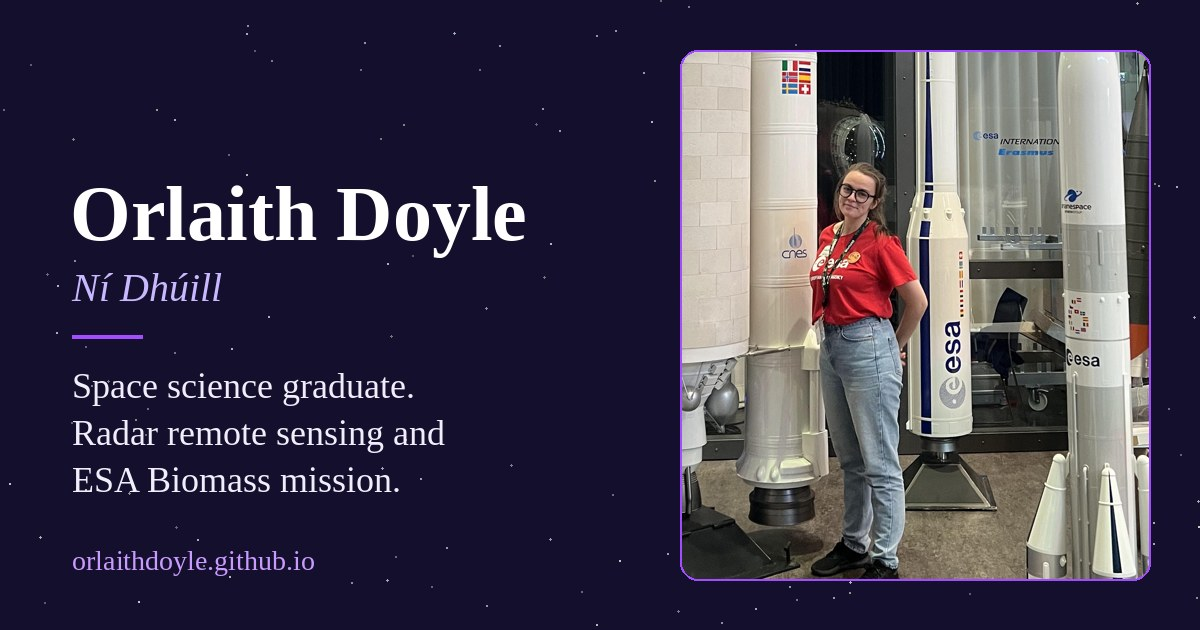
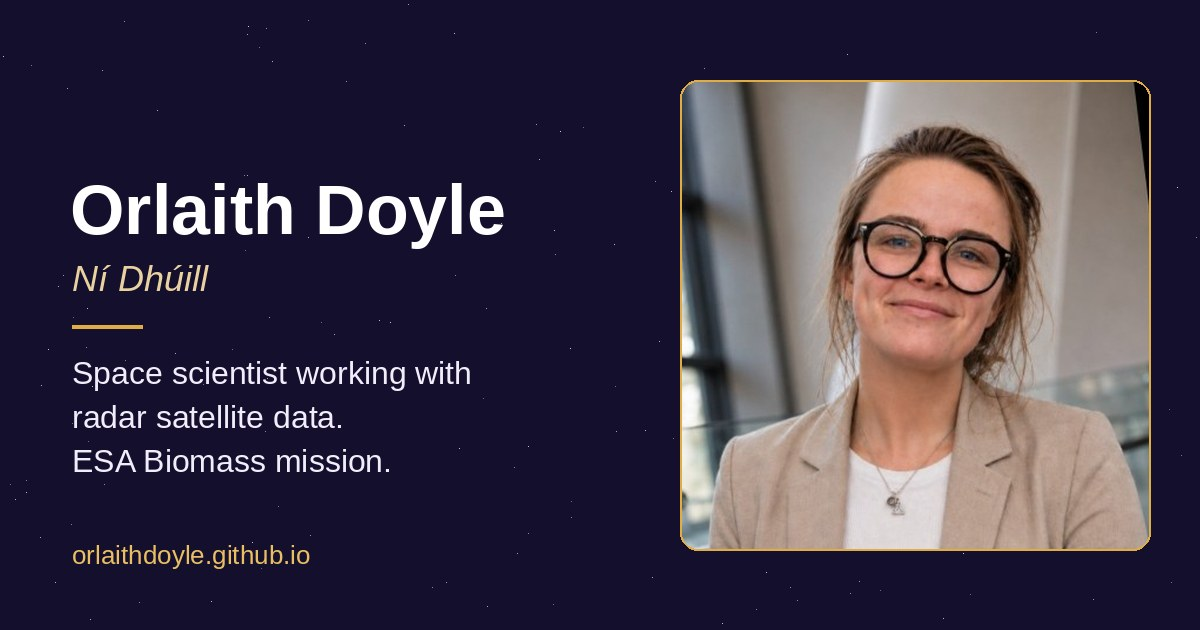
New headshot on home page and link preview card

diff --git a/_layouts/default.html b/_layouts/default.html
@@ -16,7 +16,7 @@
 <meta property="og:image" content="{{ '/og-image.jpg' | absolute_url }}">
 <meta property="og:image:width" content="1200">
 <meta property="og:image:height" content="630">
-<meta property="og:image:alt" content="{{ site.name }} standing among model rockets in an ESA t-shirt">
+<meta property="og:image:alt" content="{{ site.name }} smiling, in a beige blazer and glasses">
 <meta name="twitter:card" content="summary_large_image">
 {% if page.noindex %}<meta name="robots" content="noindex">{% endif %}
 <meta name="theme-color" content="#130f2c">
